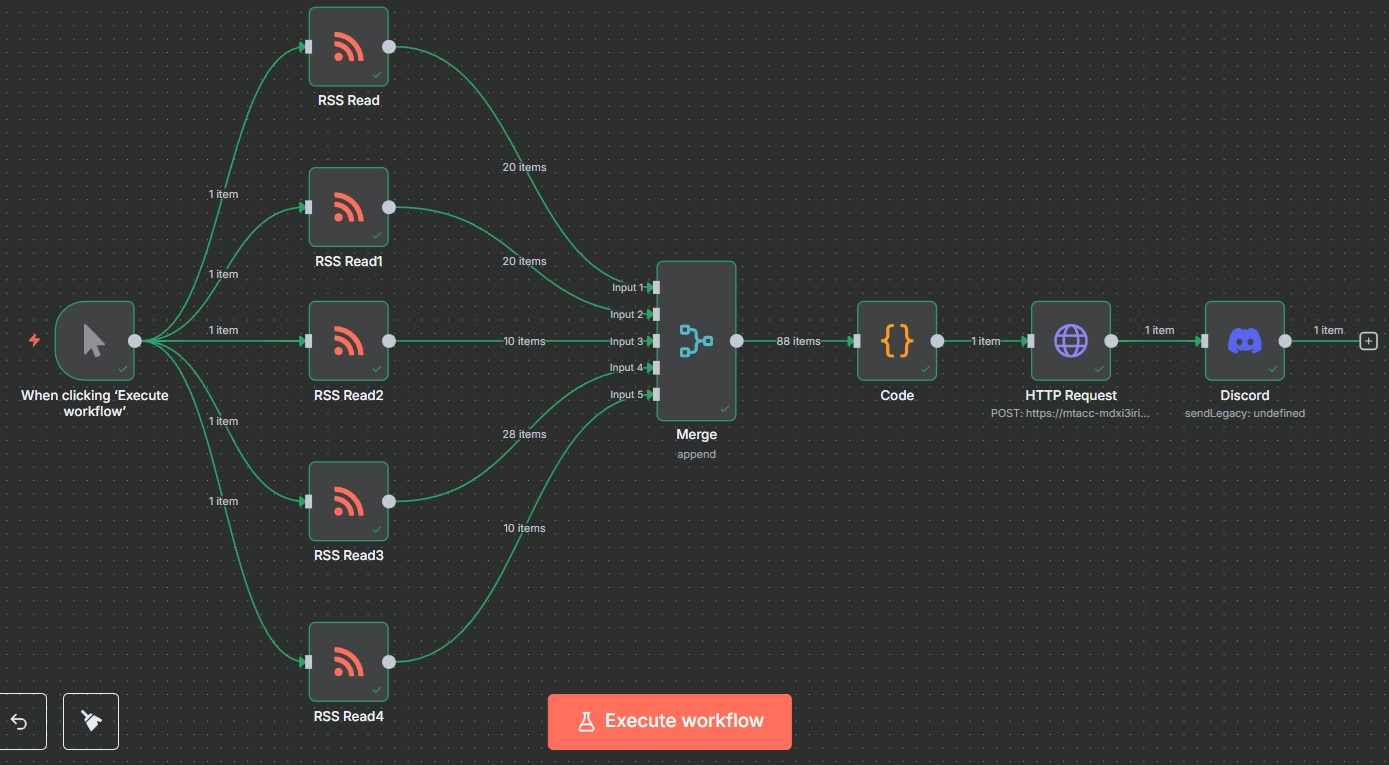
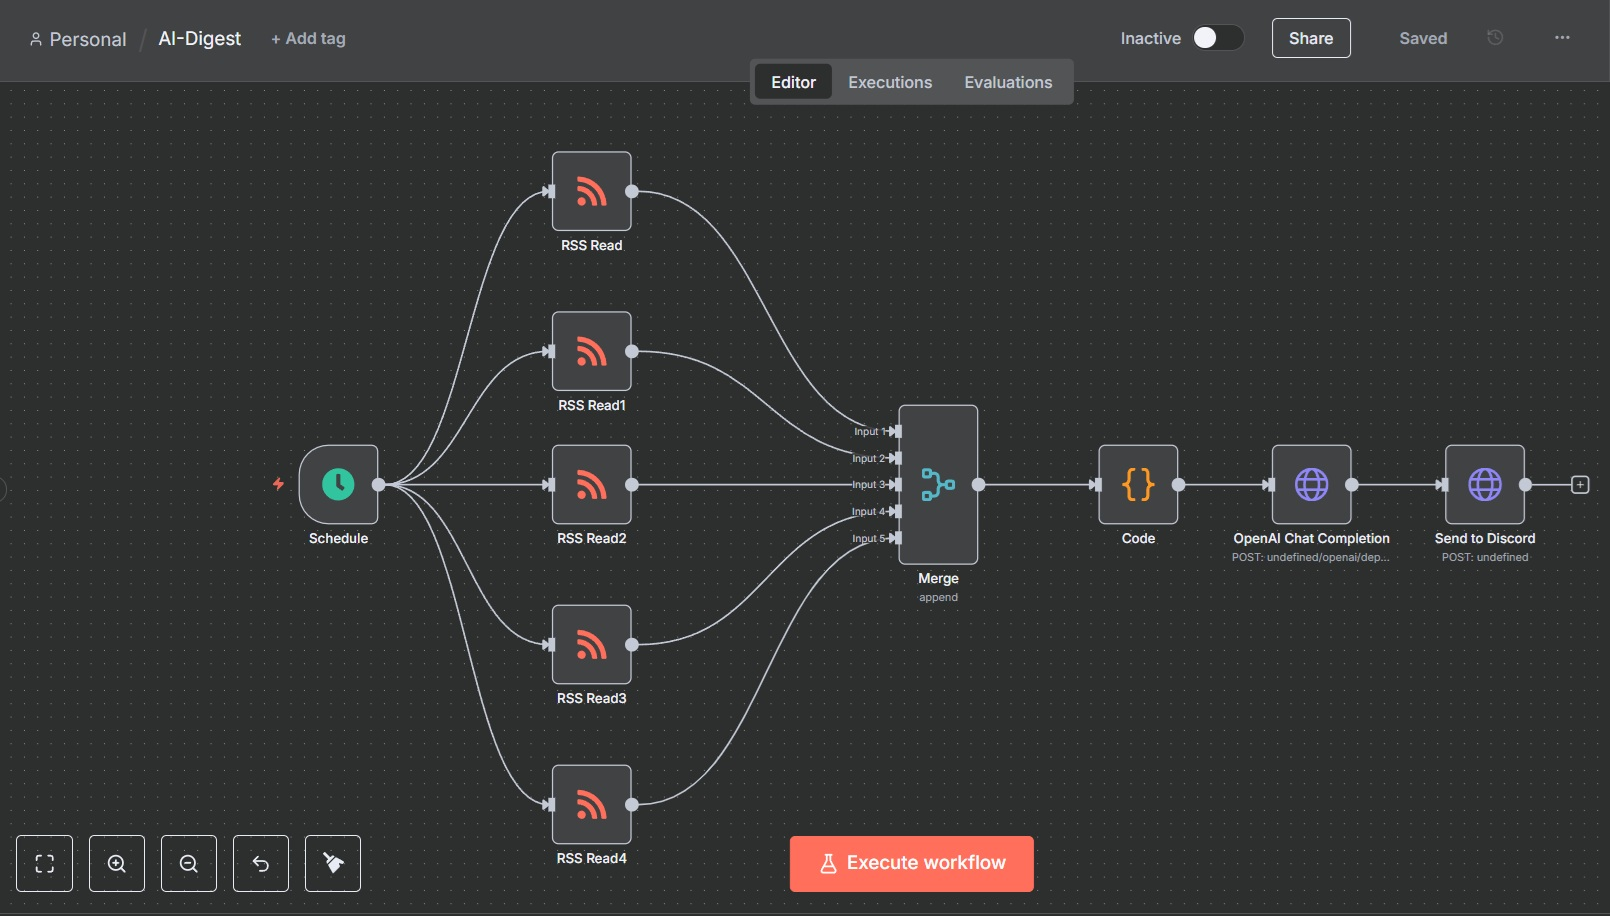
Application Deployed

diff --git a/README.md b/README.md
@@ -1,1 +1,125 @@
-# N8N_AI_News
+# AI News Digest for Discord
+
+![N8N Flow](screenshots/N8N_flow.jpg)
+
+A self-hosted n8n workflow that pulls the latest headlines from five RSS feeds each evening, sends them to a deployed GPT-4 model on Azure OpenAI to produce a concise bullet-point summary, and posts the result to a Discord channel.
+
+## Features
+
+*   **Daily Summary:** Triggered by a KEDA cron scaler at 20:00 Europe/London time.
+*   **Fully Serverless-Style:** Deployed using Azure Container Apps for cost-effective, on-demand execution.
+*   **Secure Credential Storage:** Uses Azure Container App Secrets to manage all API keys and URLs.
+*   **Direct Summarization Pipeline:** Leverages a deployed Azure OpenAI GPT-4 model for high-quality summaries.
+*   **Local Development:** Fully containerized with Docker for consistent local testing.
+
+## Architecture
+
+KEDA Cron Scaler (Azure) -> Container App -> n8n Workflow -> Azure OpenAI -> Discord Webhook
+
+
+**Components:**
+
+*   **n8n Workflow (`ai-digest.json`):** The core automation logic that fetches, summarizes, and posts.
+*   **KEDA Cron Scaler:** The trigger mechanism within Azure that wakes the container app on a schedule.
+*   **Azure Container App Secrets:** Securely stores all API keys, URLs, and credentials.
+*   **Azure OpenAI Service:** Hosts the `gpt-4` model deployment used for summarization.
+*   **Discord Webhook:** The interface used to post the final summary message to a Discord channel.
+
+## Prerequisites
+
+1.  An Azure account with permissions to create resources.
+2.  A Discord server where you have permission to create webhooks.
+3.  Local tools if developing locally:
+    *   Azure CLI (for logging into the container registry)
+    *   Docker Desktop (for building and running the container image)
+
+![Discord AI Digest Output](screenshots/Discord.jpg)
+
+## Setup
+
+1.  **Clone this repository:**
+
+    ```bash
+    git clone <repository-url>
+    cd <repository-folder>
+    ```
+
+2.  **Create a Discord Webhook:**
+    *   In your Discord server, go to `Server Settings` > `Integrations` > `Webhooks`.
+    *   Click `New Webhook`, give it a name (e.g., "AI News Bot"), and choose the channel for posting.
+    *   Click `Copy Webhook URL` and save it for the `.env` file and Azure secrets.
+
+3.  **Set up Azure OpenAI:**
+    *   In the Azure Portal, create an **Azure OpenAI** resource.
+    *   Navigate to the **Azure AI Studio** for that resource.
+    *   Go to **Deployments** and create a new deployment, selecting a `gpt-4` model. Give it a clear deployment name (e.g., `gpt-4-summarizer`).
+
+4.  **Configure Azure Container Registry (ACR):**
+    *   In the Azure Portal, create a **Container Registry** resource. The `Basic` SKU is sufficient.
+    *   Note the unique name you give it (e.g., `aidigestregistry`).
+
+## Build and Deploy
+
+1.  **Build and Push the Docker Image:**
+    *   Log in to your registry from your terminal:
+        ```bash
+        az acr login --name <your-registry-name>
+        ```
+    *   Build the image:
+        ```bash
+        docker build -t n8n-ai-news .
+        ```
+    *   Tag the image for your registry:
+        ```bash
+        docker tag n8n-ai-news <your-registry-name>.azurecr.io/n8n-ai-news:latest
+        ```
+    *   Push the image:
+        ```bash
+        docker push <your-registry-name>.azurecr.io/n8n-ai-news:latest
+        ```
+
+2.  **Deploy to Azure Container Apps:**
+    *   In the Azure Portal, **Create a Container App**.
+    *   On the **Container** tab, point it to the image in your ACR. Use `Managed identity` for authentication.
+    *   On the **Ingress** tab, enable ingress on port `5678`.
+    *   After creation, navigate to the app's **Secrets** page and create secrets for your credentials using `lowercase-with-hyphens` (e.g., `openai-api-key`).
+    *   Navigate to the **Container** page, click **Edit and deploy**, and add **Environment Variables** that reference the secrets you created.
+    *   Navigate to the **Scale** page, set min replicas to `0`, and add a `Cron` KEDA scaler to run on your schedule.
+
+![Discord AI Digest Output](screenshots/Container_app_2.jpg)
+
+## Testing and Verification
+
+1.  **Manual Trigger in Azure:**
+    *   Navigate to the **Application Url** of your Container App. This will wake the container from zero.
+    *   Log in to the n8n UI. The workflow will appear on the canvas.
+    *   Press **Execute Workflow** to run the job manually.
+2.  **Check Logs:** View the container logs in the Azure Portal under the **Log stream** menu of your Container App.
+3.  **Verify Output:** Check your Discord channel for the AI-generated summary.
+
+## Local Development
+
+You must create a `.env` file in the project root for local testing (this is ignored by Git).
+
+* The Endpoint from the AI Studio's "View code" pop-up for your deployment
+OPENAI-BASE-URL=https://<your-resource-name>.openai.azure.com
+
+* The exact name you gave your model deployment in the AI Studio
+OPENAI-DEPLOYMENT=<your-deployment-name>
+
+* The key from the AI Studio's "View code" pop-up
+OPENAI-API-KEY=<your-api-key>
+
+* The webhook URL you copied from Discord
+DISCORD-WEBHOOK-URL=<your-discord-webhook-url>```
+
+* Invoke the container locally with:
+
+docker run --rm -it -p 5678:5678 --env-file .env n8n-ai-news
+
+## Further Notes
+
+* Schedule: To change the time, update the cron expression in both the KEDA scaler in Azure and the Schedule node in ai-digest.json.
+* AI Model: To use a different model, create a new deployment in Azure OpenAI and update the openai-deployment secret.
+* Summary Prompt: To change the instructions for the AI, edit the jsCode parameter in the Code node in ai-digest.json.
+* RSS Feeds: To add or change news sources, edit the url parameter in the various RSS Read nodes in ai-digest.json.
